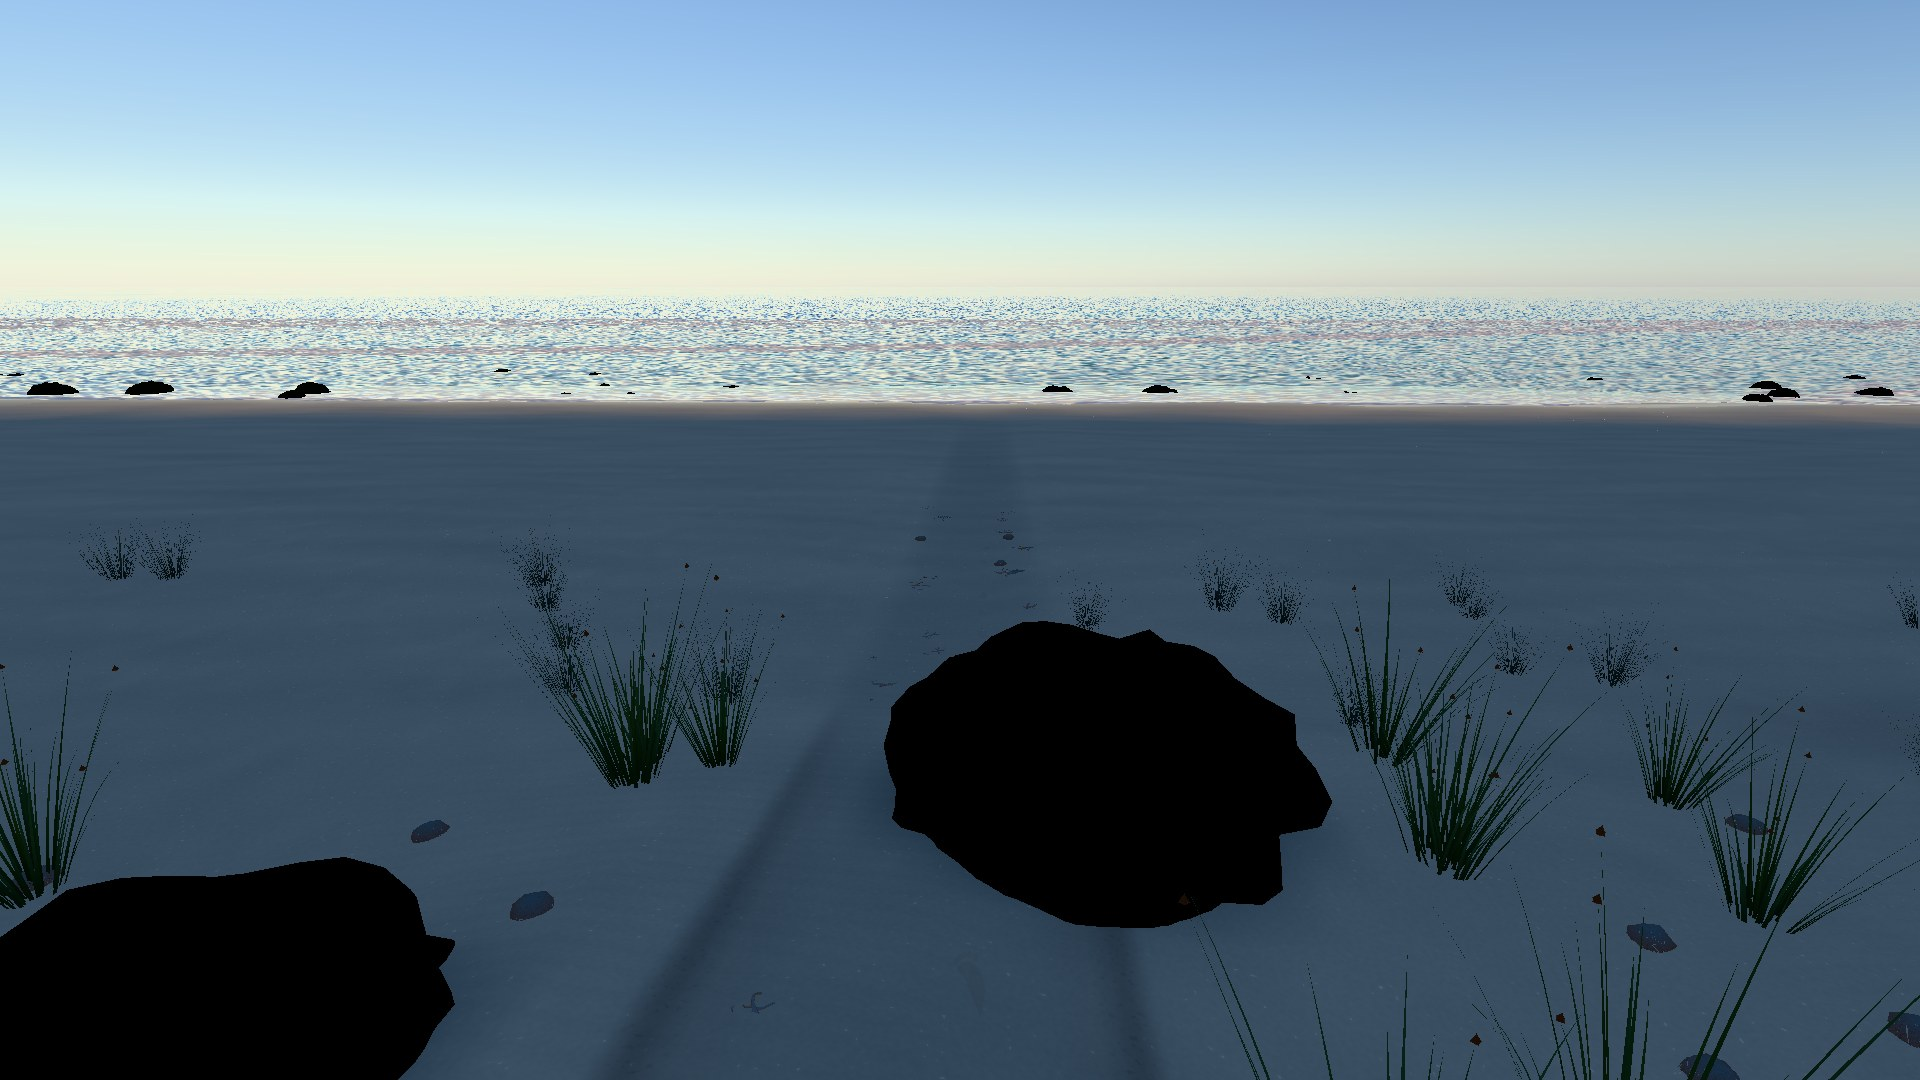
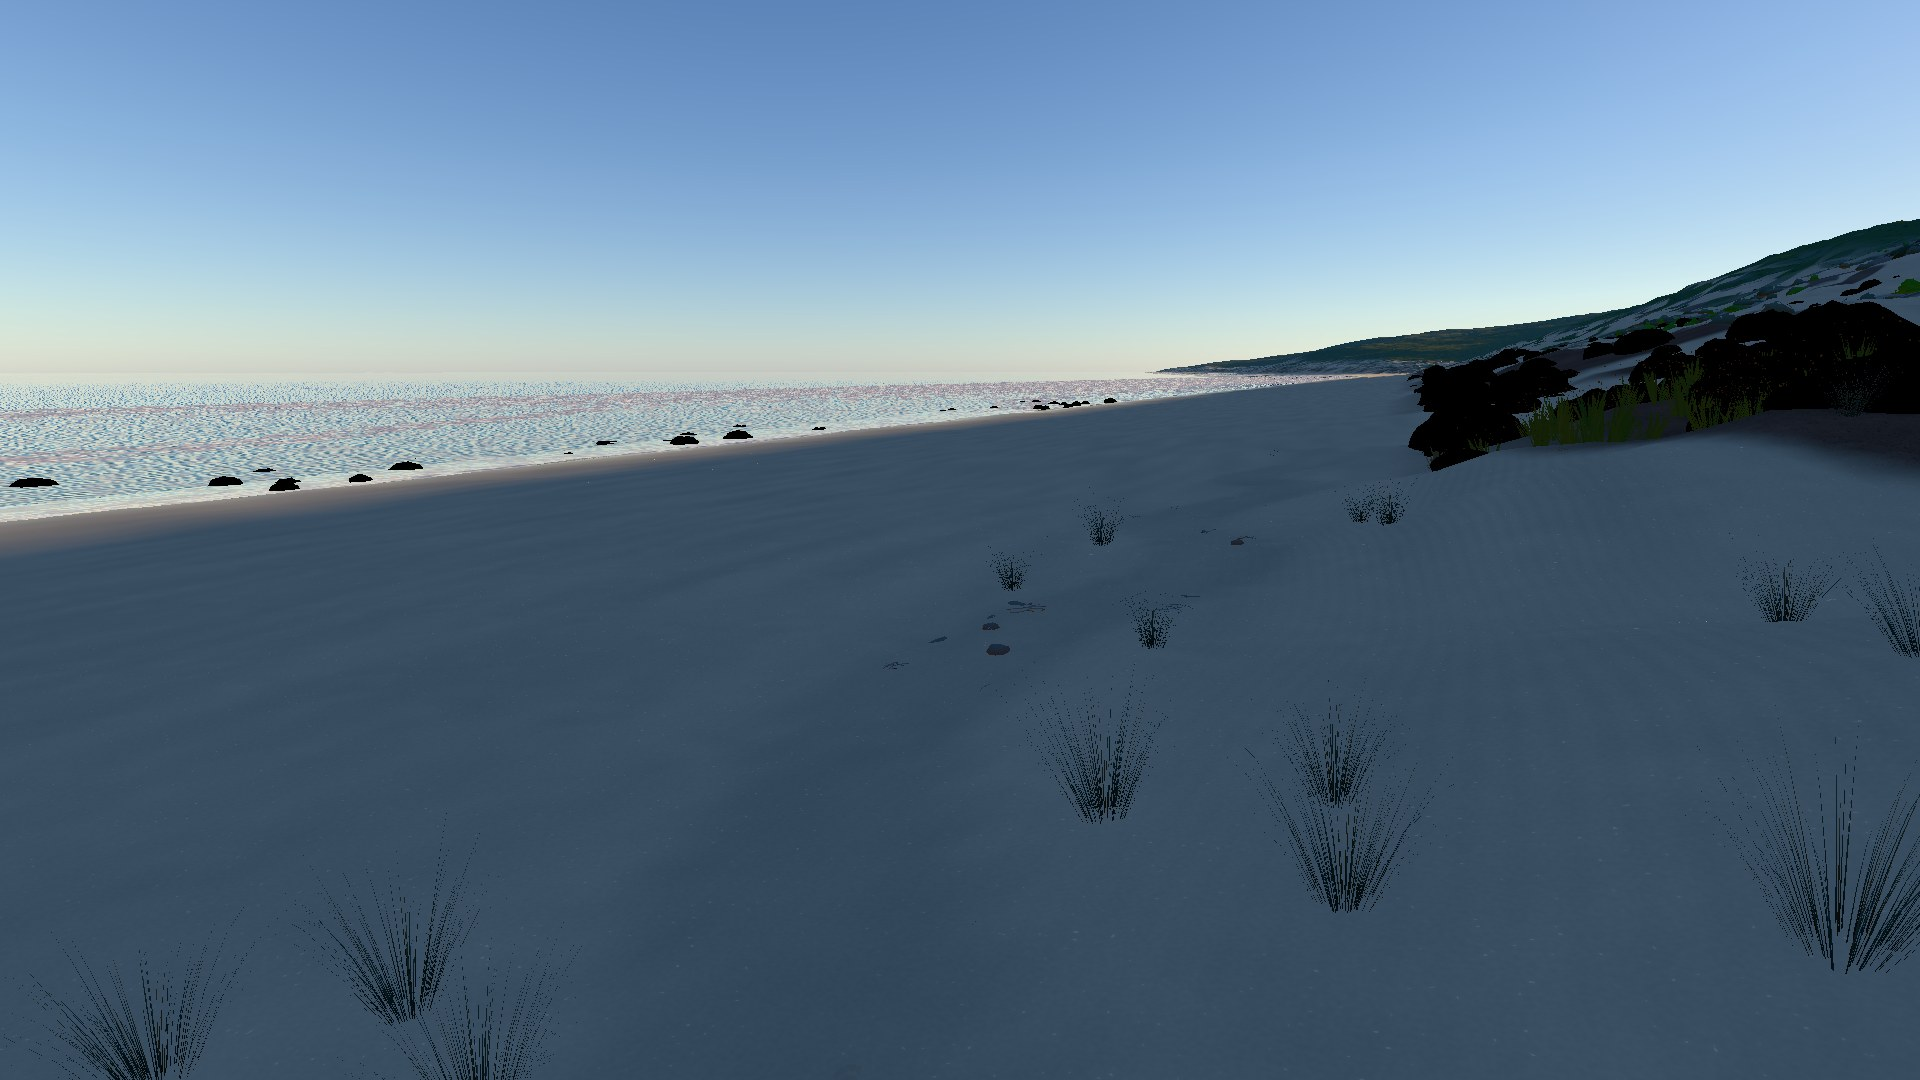
docs: gate 2's changes (pale floor, flatter junction, walkable path) and the gallery re-shot

diff --git a/docs/superpowers/specs/2026-10-02-dune-up-close-design.md b/docs/superpowers/specs/2026-10-02-dune-up-close-design.md
@@ -598,3 +598,17 @@ then the final review's rulings and deferred minors.
 - Final: minor (deferred): plant shadows rebuild only on an 8 m recentre or a sun move, so shrubs ahead get their dapples late (pre-existing; the silhouettes make it more visible).
 - Final: minor (deferred): the crew lineup's three empty placeholder meshes draw with 0 indices (a Chrome warning; from the crew work on main).
 - Final: minor (deferred): the kit's L1 cards — dead, green, tall and cushion are 12–39% fuller than their neighbours at a band edge (six measured allowances); thinner cards in the kit build would close them; MID_M 40 → 35 is the next GPU lever.
+
+### 10.2 After gate 2 (Andrew, 2026-10-03)
+
+- **"Lift colour."** The heath floor is pale grey sand (0.32, 0.31, 0.28) with litter patches (0.13, 0.115, 0.085),
+  the soil layer as detail over it. The tracks and the clearing are packed sand (0.27, 0.235, 0.18) with the track
+  layer's detail, where they had been brown soil.
+- **"Move the junction to flatter ground."** Of the Cape to Cape's points within 40 m of the lineup that see it, the
+  junction takes the flattest clearing (a metre nearer the lineup worth 0.002 of grade). On the baked land it moved
+  from (302, 45), clearing grade 0.47, to (305, 49.8), grade 0.14; the crew's ground is 0.09. Nothing on the Cape to
+  Cape near the Womb is flatter that also sees the break.
+- **The beach path is walkable on the real land:** at most 0.35 over any 2 m walked along it (from 0.57). Its router
+  costs each step by its steepest metre, moves by knight's moves too, lays to 0.30, and keeps its switchbacks'
+  hairpins when smoothed. Each foot's prints stride along its own lane.
+
